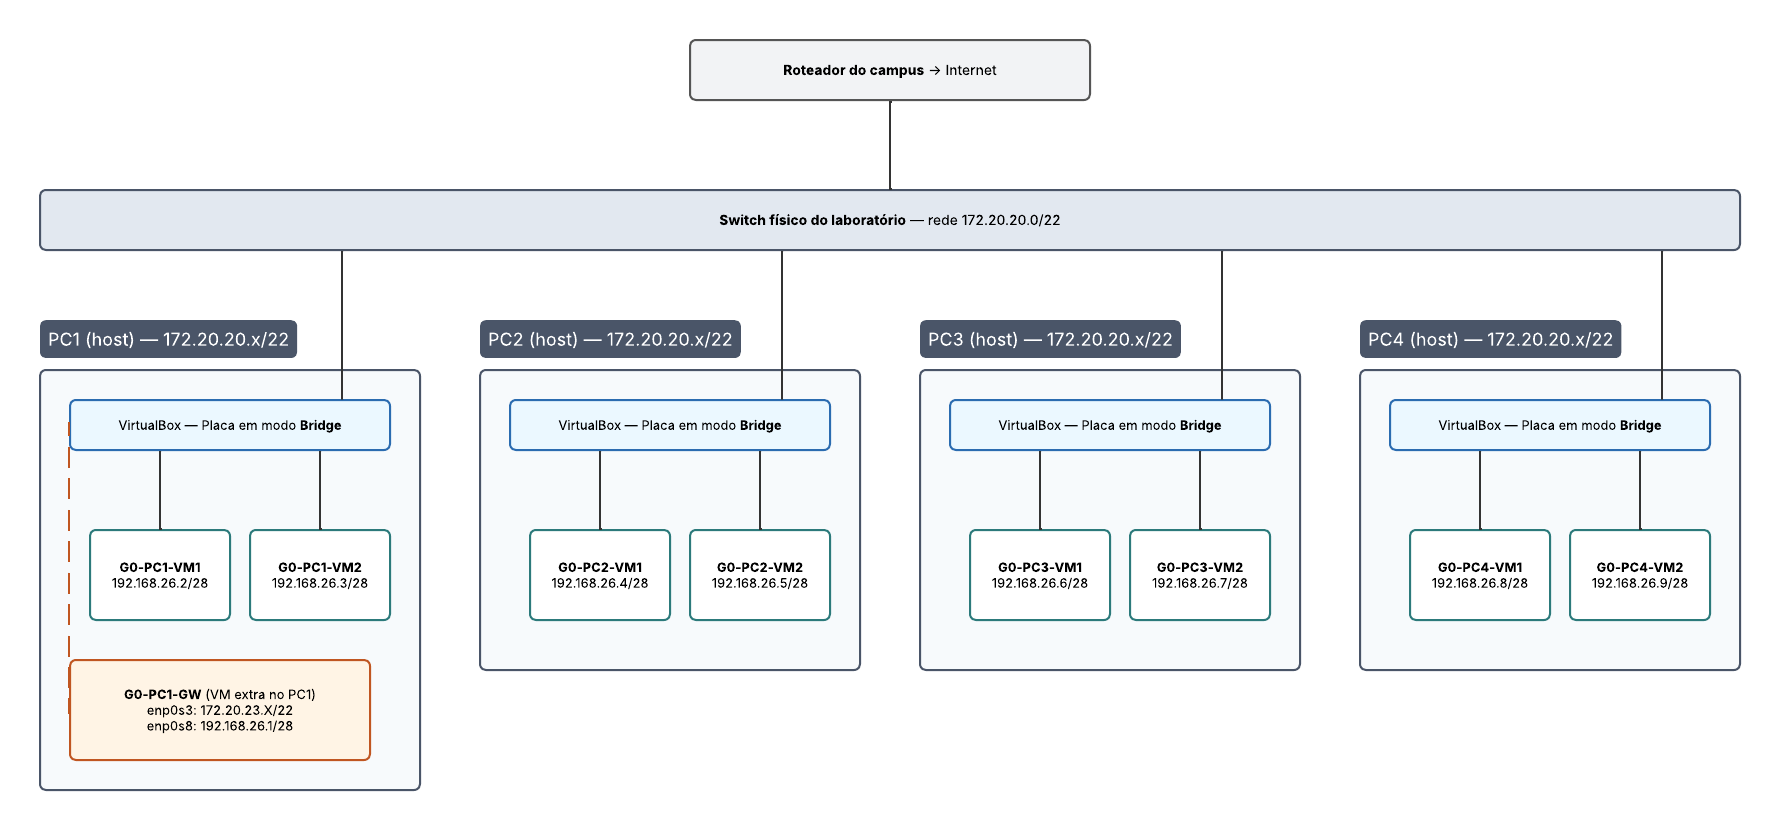
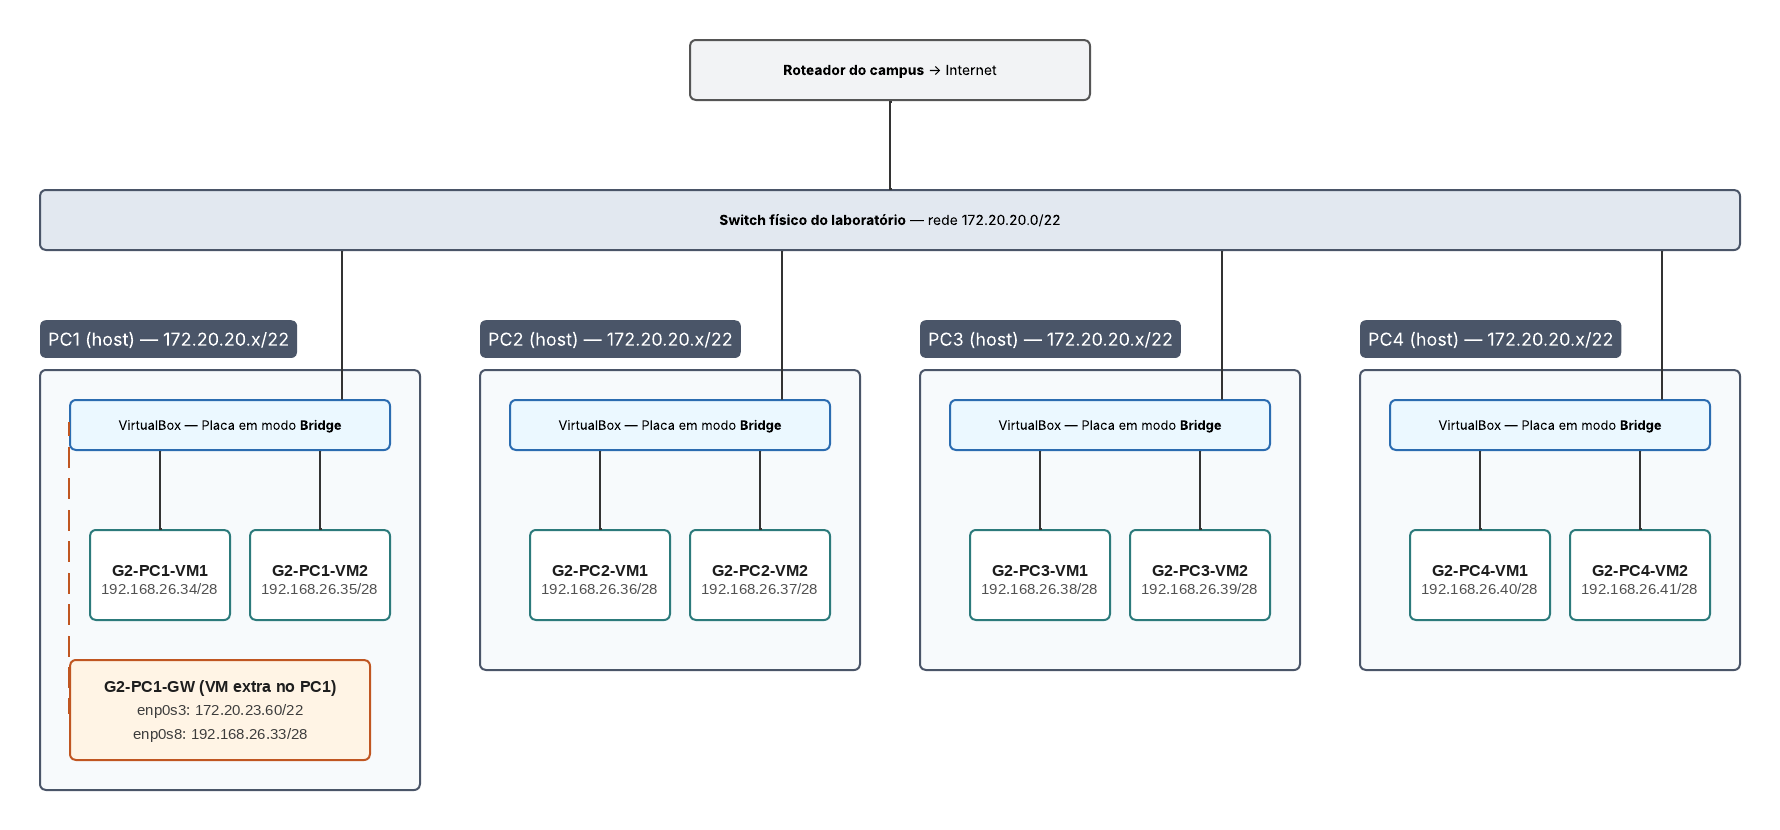
Update README.md with additional professor information and correct formatting; update binary images for topology.

diff --git a/README.md b/README.md
@@ -1,10 +1,11 @@
 # Roteiro de Reprodução e Relatório Técnico — LSOR (Etapa 1)
 ## Rede Virtualizada com 8 VMs Clientes e 1 Gateway NAT
-
+## INSTITUTO FEDERAL DE EDUCAÇÃO, CIÊNCIA E TECNOLOGIA DE ALAGOAS
 * **Disciplina:** Laboratório de Sistemas Operacionais e Redes (LSOR)
 * **Turma:** `bsi-26-2` (2026.2)
 * **Grupo:** Grupo 2
 * **Data da Prática:** 20/10/2026
+* **Professor:** Alaelson Jatobá
 * **Integrantes e Usuários:**
   * Matheus Willian do Nascimento Oliveira (`matheus.nascimento`)
   * José Pedro Costa Duda (`jose.duda`)
